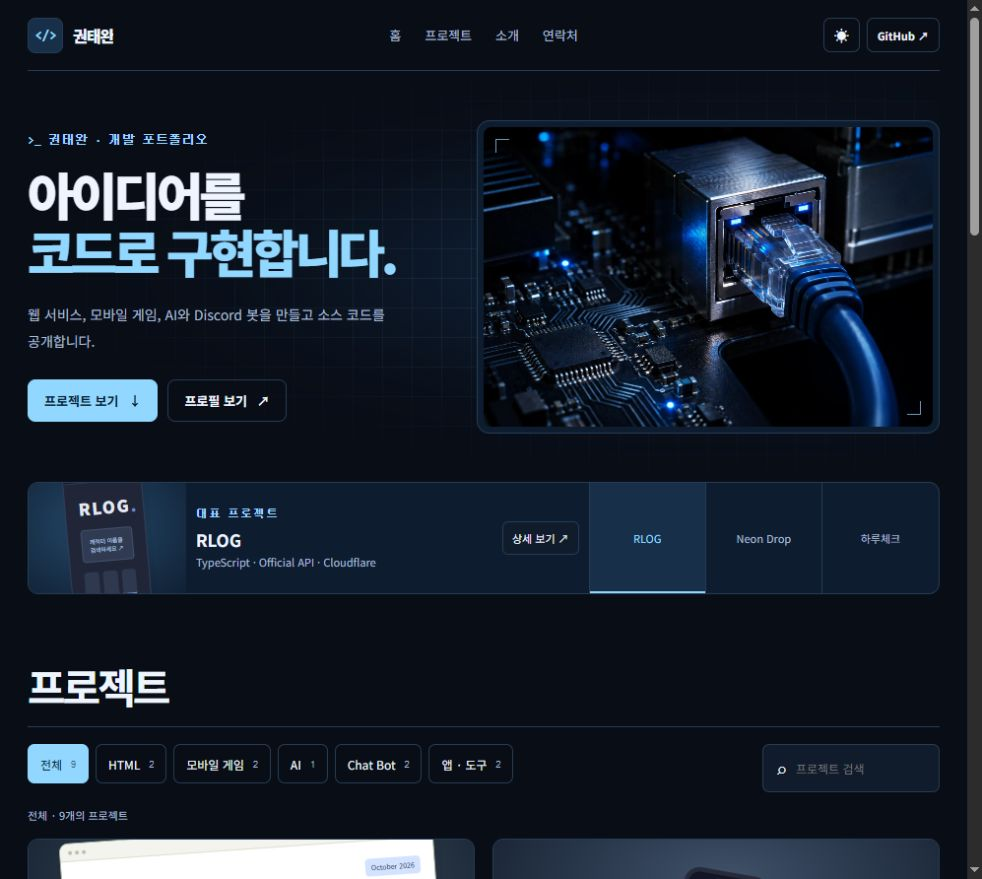
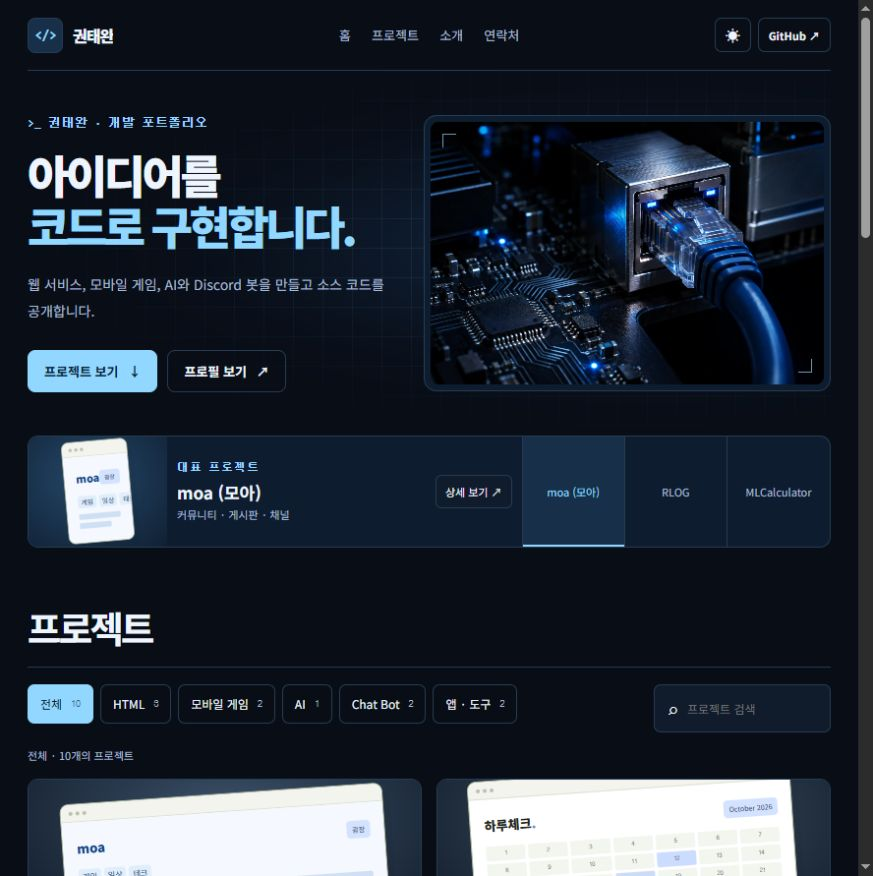
Refresh portfolio projects from GitHub

diff --git a/index.html b/index.html
@@ -308,6 +308,15 @@ body { font-family: Inter, "Noto Sans KR", "Malgun Gothic", system-ui, sans-seri
   .studio-contact .contact-actions { width: auto; }
 }
 
+.moa-mini .mini-brand { color: #15478e; }
+.moa-mini .mini-body { background: #f5f9ff; color: #154071; }
+.moa-mini-channels { display: flex; gap: 3px; margin-top: 5px; font-size: 8px; }
+.moa-mini-channels span { border-radius: 3px; background: #e0edfb; padding: 2px 4px; }
+.moa-mini-posts { display: grid; gap: 4px; margin-top: 7px; }
+.moa-mini-posts i { height: 7px; border-radius: 2px; background: #cfe0f4; }
+.moa-mini-posts i:last-child { width: 76%; }
+.spotlight-stage .calculator { transform: rotate(-6deg) scale(.74); }
+#project-dialog .hero-actions { flex-wrap: wrap; }
 </style>
 </head>
 <body>
@@ -331,28 +340,41 @@ body { font-family: Inter, "Noto Sans KR", "Malgun Gothic", system-ui, sans-seri
     </div>
   </figure>
 </section>
-<section class="studio-spotlight" aria-label="대표 작업 미리보기"><div class="card-art spotlight-stage" id="spotlight-stage" role="img" aria-label="RLOG 프로젝트 미리보기"><div class="browser-mini dark-mini"><div class="mini-body"><span class="mini-brand">RLOG.</span></div></div></div><div class="spotlight-info"><div aria-live="polite"><div class="spotlight-label">대표 프로젝트</div><h2 id="spotlight-title">RLOG</h2><p id="spotlight-tags">TypeScript · Official API · Cloudflare</p></div><button type="button" class="spotlight-open" id="spotlight-open">상세 보기 ↗</button></div><div class="spotlight-select" id="spotlight-select" role="group" aria-label="대표 프로젝트 선택"></div></section>
+<section class="studio-spotlight" aria-label="대표 작업 미리보기"><div class="card-art spotlight-stage" id="spotlight-stage" role="img" aria-label="moa (모아) 프로젝트 미리보기"><div class="browser-mini moa-mini"><div class="mini-body"><span class="mini-brand">moa</span></div></div></div><div class="spotlight-info"><div aria-live="polite"><div class="spotlight-label">대표 프로젝트</div><h2 id="spotlight-title">moa (모아)</h2><p id="spotlight-tags">커뮤니티 · 게시판 · 채널</p></div><button type="button" class="spotlight-open" id="spotlight-open">상세 보기 ↗</button></div><div class="spotlight-select" id="spotlight-select" role="group" aria-label="대표 프로젝트 선택"></div></section>
 <section id="projects" class="work studio-work" aria-labelledby="work-title"><div class="section-head"><h2 id="work-title">프로젝트</h2></div><div class="toolbar"><div id="filters" class="filters" role="group" aria-label="프로젝트 카테고리"></div><label class="search"><span aria-hidden="true">⌕</span><input id="search" type="search" placeholder="프로젝트 검색" aria-label="프로젝트 이름, 설명, 기술 검색" autocomplete="off"></label></div><div class="results"><span id="result-count" role="status" aria-live="polite"></span></div><div class="grid" id="project-grid"></div><noscript><p>프로젝트 필터와 상세 보기는 JavaScript가 필요합니다. <a href="https://github.com/taewan192">GitHub에서 전체 프로젝트 보기 ↗</a></p></noscript></section>
 <section id="about" class="about profile-section studio-about" aria-labelledby="about-title"><div><h2 id="about-title">안녕하세요, 권태완입니다.</h2><div class="skills" aria-label="프로젝트에 사용된 기술"><span>HTML / CSS / JavaScript</span><span>TypeScript</span><span>Python</span><span>Unity / C#</span><span>discord.py</span></div></div><div><p class="profile-bio" id="profile-bio">웹, 모바일 게임, AI와 Discord Bot을 만듭니다. 관심 있는 아이디어를 직접 구현하고, 실험하며 배운 것을 프로젝트로 남기고 있습니다.</p><div class="profile-card"><div class="profile-heading"><div class="profile-identity"><span class="profile-avatar" id="profile-initial" aria-hidden="true">권</span><div><h3 data-profile-name>권태완</h3><div class="profile-role" id="profile-role">Developer &amp; Creator</div></div></div><button class="pill profile-edit" id="edit-profile" type="button">프로필 편집 ↗</button></div><div class="profile-links"><a class="profile-email" id="profile-email" href="mailto:darong135@gmail.com">✉ <span>darong135@gmail.com</span></a><a class="profile-email" href="https://github.com/taewan192" target="_blank" rel="noopener noreferrer">GitHub ↗</a></div><div class="profile-feedback" id="profile-feedback" role="status" aria-live="polite"></div></div></div></section>
 <section id="contact" class="contact studio-contact" aria-labelledby="contact-title"><div><h2 id="contact-title">연락하기</h2><p>프로젝트가 궁금하거나 함께 만들고 싶은 것이 있다면 연락해 주세요.</p></div><div class="contact-actions"><a class="pill dark" id="contact-email" href="mailto:darong135@gmail.com">이메일 보내기 ↗</a><a class="pill" href="https://github.com/taewan192" target="_blank" rel="noopener noreferrer">GitHub ↗</a></div></section>
 </main><footer class="footer"><span>© <span id="year"></span> <span data-profile-name>권태완</span></span><a href="#home">맨 위로 ↑</a><a href="https://github.com/taewan192" target="_blank" rel="noopener noreferrer">@taewan192 ↗</a></footer>
 </div>
-<dialog id="project-dialog" aria-labelledby="modal-title"><div class="modal-inner"><div class="modal-top"><span class="category" id="modal-category"></span><button class="close" aria-label="상세 보기 닫기" autofocus>×</button></div><div class="card-art modal-art" id="modal-art" role="img" aria-label="프로젝트 썸네일"><div class="modal-art-stage" aria-hidden="true"></div></div><h2 id="modal-title"></h2><p id="modal-description"></p><div class="tags" id="modal-tags"></div><ul id="modal-features"></ul><div class="hero-actions"><a class="pill dark" id="modal-github" target="_blank" rel="noopener noreferrer">GitHub 소스 보기 ↗</a><a class="pill" id="modal-live" target="_blank" rel="noopener noreferrer" hidden>웹사이트 방문 ↗</a></div><p class="modal-note">프로젝트 소개는 각 GitHub 저장소의 README를 바탕으로 작성했습니다. 카드 이미지는 프로젝트 성격을 표현한 그래픽입니다.</p></div></dialog>
+<dialog id="project-dialog" aria-labelledby="modal-title"><div class="modal-inner"><div class="modal-top"><span class="category" id="modal-category"></span><button class="close" aria-label="상세 보기 닫기" autofocus>×</button></div><div class="card-art modal-art" id="modal-art" role="img" aria-label="프로젝트 썸네일"><div class="modal-art-stage" aria-hidden="true"></div></div><h2 id="modal-title"></h2><p id="modal-description"></p><div class="tags" id="modal-tags"></div><ul id="modal-features"></ul><div class="hero-actions"><a class="pill dark" id="modal-github" target="_blank" rel="noopener noreferrer">GitHub 소스 보기 ↗</a><a class="pill" id="modal-live" target="_blank" rel="noopener noreferrer" hidden>웹사이트 방문 ↗</a><a class="pill" id="modal-download" target="_blank" rel="noopener noreferrer" hidden>최신 버전 다운로드 ↗</a></div><p class="modal-note">프로젝트 소개는 각 GitHub 저장소의 README를 바탕으로 작성했습니다. 카드 이미지는 프로젝트 성격을 표현한 그래픽입니다.</p></div></dialog>
 <script id="profile-defaults" type="application/json">{"name":"권태완","email":"darong135@gmail.com","role":"Developer & Creator","bio":"웹, 모바일 게임, AI와 Discord Bot을 만듭니다. 관심 있는 아이디어를 직접 구현하고, 실험하며 배운 것을 프로젝트로 남기고 있습니다."}</script>
 <dialog id="profile-dialog" aria-labelledby="profile-modal-title"><div class="modal-inner"><div class="modal-top"><span class="category">MY PROFILE</span><button class="close" id="close-profile" type="button" aria-label="프로필 편집 닫기">×</button></div><h2 id="profile-modal-title">나를 소개하는 정보.</h2><p class="profile-help" id="profile-save-help">저장한 내용은 이 브라우저에만 적용됩니다. 다른 기기나 방문자에게도 같은 정보를 보여주려면 수정한 HTML을 내려받아 사이트에 배포하세요.</p><form class="profile-form" id="profile-form" aria-describedby="profile-save-help"><label>이름<input id="edit-name" name="name" autocomplete="name" required maxlength="40"></label><label>이메일<input id="edit-email" name="email" type="email" autocomplete="email" required maxlength="254"></label><label>직함 · 한 줄 소개<input id="edit-role" name="role" maxlength="80"></label><label>자기소개<textarea id="edit-bio" name="bio" maxlength="600" rows="4"></textarea></label><div class="profile-form-actions"><button class="pill dark" type="submit">이 브라우저에 저장</button><button class="pill" id="export-profile" type="button">수정한 HTML 다운로드 ↧</button></div></form></div></dialog>
 <script>
 'use strict';
 // 프로젝트를 추가하거나 수정할 때 이 배열을 편집하세요. categories에는 여러 분류를 넣을 수 있습니다.
 const PROJECTS = [
-{id:'harucheck',title:'하루체크',categories:['tools'],label:'APP · TOOL',art:'calendar',color:'#e7edda',tags:['HTML','CSS','JavaScript'],description:'하루의 일정과 완료 상태를 한눈에. 테마와 알림을 지원하는 캘린더 웹앱입니다.',features:['2026–2027 월별 달력과 일정 추가·수정·삭제','예정·완료·실패 상태와 날짜별 진행률','화이트·다크 테마, 10개 언어 및 .ics 일정 내보내기','브라우저 내부 저장. 알림은 앱이 실행 중인 지원 환경에서 동작'],github:'https://github.com/taewan192/harucheck'},
+  {
+    id: 'moa', title: 'moa (모아)', categories: ['html'], label: 'WEB · COMMUNITY',
+    art: 'moa', color: '#d9e8f9', tags: ['커뮤니티', '게시판', '채널'],
+    description: '게임, 애니·만화, 일상, 영화, 테크 등 관심사별로 이야기를 나누는 한국어 커뮤니티입니다.',
+    features: [
+      '광장에서 인기 글을 둘러보고 관심 채널을 즐겨찾기에 저장',
+      '사진·GIF·영상과 표·그래프·투표를 활용한 게시글 작성',
+      '프로필에서 활동과 포인트 확인, 쪽지·알림·회원 차단 제공',
+      '게시글·댓글·쪽지 신고와 커뮤니티 운영 공지'
+    ],
+    github: 'https://github.com/taewan192/moa-community-intro', githubLabel: 'GitHub 소개 문서',
+    live: 'https://moapark.com/'
+  },
+{id:'harucheck',title:'하루체크',categories:['tools'],label:'APP · TOOL',art:'calendar',color:'#e7edda',tags:['HTML','CSS','JavaScript'],description:'하루의 일정과 완료 상태를 한눈에. 테마와 알림을 지원하는 캘린더 웹앱입니다.',features:['2026–2027 월별 달력과 일정 추가·수정·삭제','예정·완료·실패 상태와 날짜별 진행률','화이트·다크 테마, 10개 언어, 일정별 .ics 내보내기','시작 시각 또는 미리 알림과 맞춤 알림, 소리·진동 설정','일정은 브라우저에 저장. 알림 권한을 지원하는 웹 환경에서 사용'],github:'https://github.com/taewan192/harucheck'},
 {id:'neon-drop',title:'Neon Drop',categories:['mobile'],label:'MOBILE GAME',art:'blocks',color:'#e5dff3',tags:['HTML','JavaScript','Android'],description:'빛나는 블록을 쌓는 오프라인 퍼즐 게임. 터치 조작과 10개 언어를 지원합니다.',features:['터치 조작, 홀드와 고스트 블록','효과음과 라이트·다크 테마','네트워크 없이 실행되는 독립 HTML과 Android 앱','10개 언어와 기기 내 최고 점수 저장'],github:'https://github.com/taewan192/neon-drop'},
 {id:'ldplayer-ai',title:'LDPlayer Deep RL',categories:['ai'],label:'ARTIFICIAL INTELLIGENCE',art:'network',color:'#e4ebdd',tags:['Python','NumPy','Double DQN'],description:'게임 화면과 OCR로 상태를 읽고, 로컬 CPU에서 학습하는 실험적 강화학습 AI입니다.',features:['Million Lords용 게임 어댑터와 화면·OCR 관측','NumPy 기반 Double DQN과 Prioritized Experience Replay','공격 후보 검토, 병력 집결, 방어 지원 및 실행 결과 확인','외부 AI API·GPU 없이 CPU에서 학습. 실험적 시스템으로 실전 성능은 보장하지 않음'],github:'https://github.com/taewan192/ldplayer-mobile-game-deep-rl-ai'},
-{id:'millionlords-bot',title:'MillionLords Bot',categories:['chatbot'],label:'DISCORD BOT',art:'chat',color:'#e8e5f1',tags:['Python','discord.py','CSV'],description:'공격력 계산부터 팀 관리, 보석 일정까지. 길드 운영을 돕는 Discord 봇입니다.',features:['공격력·레벨 계산과 병력 손실 빌드 시뮬레이션','팀·닉네임 관리 및 권한 기반 멤버 관리','날짜·종류별 보석 일정 조회','Discord 명령어와 로그·파일 저장 처리'],github:'https://github.com/taewan192/MillionLords_bot'},
-{id:'rlog',title:'RLOG',categories:['html'],label:'HTML · WEB',art:'rlog',color:'#dfe6f1',tags:['TypeScript','Official API','Cloudflare'],description:'로스트아크 캐릭터 검색과 장비 조회, 원정대 관리·주간 골드 계산을 한곳에.',features:['공식 API 기반 캐릭터 검색·최대 4명 비교','장비·보석·각인·카드·수집 현황 조회','거래소 시세, 주간 일정 및 공지·이벤트','조회 기록 기반 순위와 사용자가 설정하는 예상 주간 골드 계산'],github:'https://github.com/taewan192/RLOG',live:'https://statpeek-ark.arcanagaming2026.chatgpt.site/'},
-{id:'sudoku',title:'Sudoku',categories:['mobile'],label:'MOBILE GAME',art:'sudoku',color:'#e2ebed',tags:['Unity','C#','Android'],description:'노트와 힌트로 풀어가는 스도쿠. 세 가지 난이도로 즐기는 세로형 모바일 게임입니다.',features:['Easy·Normal·Hard 난이도별 10개 라운드','라운드마다 무작위 스도쿠 보드','노트 모드, 힌트와 난이도별 실수 제한','화이트·다크 테마 및 Android 세로 화면 지원'],github:'https://github.com/taewan192/Sudoku'},
-{id:'mlcalculator',title:'MLCalculator',categories:['tools'],label:'APP · TOOL',art:'calculator',color:'#f0e7da',tags:['TypeScript','Python','Android'],description:'Million Lords의 플레이어 스탯과 도시 업그레이드 비용을 계산하는 멀티플랫폼 앱.',features:['플레이어 공격력·목표 레벨과 도시 비용 계산','성벽·승점·부대 생산량과 보유 골드 계산','Windows·Android·모바일 웹 버전','9개 언어, 테마와 설정 저장. Windows·Android는 오프라인 사용 가능'],github:'https://github.com/taewan192/MLCalculator'},
-{id:'signup-bot',title:'MillionLords 가입 봇',categories:['chatbot'],label:'DISCORD BOT',art:'signup',color:'#eee4ee',tags:['Python','discord.py','Slash Commands'],description:'메인·ALT 계정 등록과 역할 적용을 자동화하는 Discord 서버 가입 도우미.',features:['/signup으로 메인 닉네임·Discord 닉네임·가입 역할 적용','/alt로 메인 계정에 ALT 닉네임 추가','관리자의 계정 조회·등록 기록 초기화','CSV 계정 저장과 비공개 명령 응답'],github:'https://github.com/taewan192/MillionLords_bot_ML_Sever'},
-{id:'portfolio',title:'개인 포트폴리오',categories:['html'],label:'HTML · WEB',art:'portfolio',color:'#dce6f8',tags:['HTML','CSS','JavaScript'],description:'직접 만든 웹·앱·게임·AI 프로젝트를 한곳에 모은 권태완의 개인 포트폴리오 사이트입니다.',features:['HTML·모바일 게임·AI·Chat Bot·앱·도구별 필터와 검색','썸네일·설명·주요 기능·GitHub 링크를 제공하는 프로젝트 상세 화면','라이트 모드와 블랙·다크블루 다크 모드, 모바일 반응형 화면','이름·이메일·자기소개 편집, 브라우저 저장 및 수정한 HTML 다운로드'],github:'https://github.com/taewan192/taewan-portfolio',live:'https://arcana-portfolio-k8x4.arcanagaming2026.chatgpt.site/'}
+{id:'millionlords-bot',title:'MillionLords Bot',categories:['chatbot'],label:'DISCORD BOT',art:'chat',color:'#e8e5f1',tags:['Python','discord.py','CSV'],description:'공격력 계산부터 팀 관리, 보석 일정까지. 길드 운영을 돕는 Discord 봇입니다.',features:['공격력·레벨 계산과 병력 손실 빌드 시뮬레이션','팀·닉네임 관리 및 권한 기반 멤버 관리','날짜·종류별 보석 일정 조회','채널 정리, 도움말과 관리자용 명령어 지원'],github:'https://github.com/taewan192/MillionLords_bot'},
+{id:'rlog',title:'RLOG',categories:['html'],label:'HTML · WEB',art:'rlog',color:'#dfe6f1',tags:['TypeScript','로스트아크 공식 API','Cloudflare D1'],description:'로스트아크 공식 API를 바탕으로 캐릭터와 장비를 조회하고, 원정대의 예상 주간 골드를 계산하는 웹 서비스입니다.',features:['캐릭터 최대 4명 비교와 장비·보석·각인·카드·아크 그리드 상세 조회','공식 거래소 시세, 주간 일정과 공지·이벤트','RLOG 조회 기록을 바탕으로 표시하는 직업 순위와 길드 구성원','레이드와 난이도를 선택해 거래 가능 골드와 귀속 골드를 나눠 계산'],github:'https://github.com/taewan192/RLOG',live:'https://statpeek-ark.arcanagaming2026.chatgpt.site/'},
+{id:'sudoku',title:'Sudoku',categories:['mobile'],label:'MOBILE GAME',art:'sudoku',color:'#e2ebed',tags:['Unity','C#','Android'],description:'노트와 힌트로 풀어가는 스도쿠. 세 가지 난이도로 즐기는 세로형 모바일 게임입니다.',features:['Easy·Normal·Hard 난이도별 10개 라운드','라운드마다 무작위 스도쿠 보드','노트 모드, 힌트와 난이도별 실수 제한','화이트·다크 테마와 언어 메뉴, Android 세로 화면 지원'],github:'https://github.com/taewan192/Sudoku'},
+{id:'mlcalculator',title:'MLCalculator',categories:['tools'],label:'APP · TOOL',art:'calculator',color:'#f0e7da',tags:['TypeScript','Python','Android'],description:'Million Lords의 공격 가능 레벨, 도시 업그레이드 비용과 부대 생산량을 계산하는 Windows·Android·모바일 웹 도구입니다.',features:['장비 공격력과 병력 또는 직접 입력한 공격력으로 목표 레벨 계산','도시별 업그레이드 비용·성벽·승점·부대 생산량과 보유 골드로 가능한 업그레이드 계산','Windows·Android 1.1.6에 리그 그룹 선택과 예상 모집 탭 제공','9개 언어와 테마·설정 저장, Windows·Android 오프라인 지원'],github:'https://github.com/taewan192/MLCalculator',download:'https://github.com/taewan192/MLCalculator/releases/latest'},
+{id:'signup-bot',title:'MillionLords 가입 봇',categories:['chatbot'],label:'DISCORD BOT',art:'signup',color:'#eee4ee',tags:['Python','discord.py','Slash Commands'],description:'메인·ALT 계정 등록과 역할 적용을 자동화하는 Discord 서버 가입 도우미.',features:['/signup으로 메인 닉네임·Discord 닉네임·가입 역할 적용','/alt로 메인 계정에 ALT 닉네임 추가','관리자의 계정 조회·등록 기록 초기화','CSV 계정 저장과 명령을 실행한 사람에게만 보이는 응답'],github:'https://github.com/taewan192/MillionLords_bot_ML_Sever'},
+{id:'portfolio',title:'개인 포트폴리오',categories:['html'],label:'HTML · WEB',art:'portfolio',color:'#dce6f8',tags:['HTML','CSS','JavaScript'],description:'직접 만든 웹·앱·게임·AI 프로젝트를 한곳에 모은 권태완의 개인 포트폴리오 사이트입니다.',features:['HTML·모바일 게임·AI·Chat Bot·앱·도구별 필터와 검색','썸네일·설명·주요 기능·GitHub 링크를 제공하는 프로젝트 상세 화면','moa·RLOG·MLCalculator 대표 프로젝트와 모바일 반응형 화면, 라이트·다크 모드','이름·이메일·자기소개 편집, 브라우저 저장 및 수정한 HTML 다운로드'],github:'https://github.com/taewan192/taewan-portfolio',live:'https://arcana-portfolio-k8x4.arcanagaming2026.chatgpt.site/'}
 ];
 const CATEGORIES=[['all','전체'],['html','HTML'],['mobile','모바일 게임'],['ai','AI'],['chatbot','Chat Bot'],['tools','앱 · 도구']];
 const $=s=>document.querySelector(s);const grid=$('#project-grid'),dialog=$('#project-dialog');let active='all',query='',previousFocus=null;
@@ -362,6 +384,15 @@ if(p.art==='calendar')a=`<div class="browser-mini">${bar}<div class="mini-body">
 if(p.art==='blocks')a=`<div class="phone"><div class="phone-title">NEON DROP</div><div class="blocks">${Array.from({length:48},(_,i)=>`<i class="${i>23?'c'+(Math.floor(i/5)%3+1):[4,10,16,17].includes(i)?'c1':''}"></i>`).join('')}</div></div>`;
 if(p.art==='network')a=`<div class="network">${[3,4,3,2].map((n,i)=>`<div class="network-col">${'<i></i>'.repeat(n)}</div>`).join('')}</div><span class="ai-foot">OBSERVE → LEARN → ACT</span>`;
 if(p.art==='chat'||p.art==='signup')a=`<div class="chat-mini"><div class="chat-title"><span class="bot-avatar">✳</span>MillionLords <span style="font-size:6px;background:#8774c1;color:#fff;padding:2px 4px;border-radius:3px">APP</span></div><div class="chat-line"><span class="bot-avatar" style="width:18px;height:18px;font-size:9px">m</span><div class="chat-text"><strong>${p.art==='signup'?'가입 도우미':'길드 어시스턴트'}</strong><br>${p.art==='signup'?'메인 계정을 등록하고 시작하세요.':'공격력 계산과 길드 관리를 더 간편하게.'}</div></div><div class="command">${p.art==='signup'?'/signup 닉네임':'/lb 공격력'}</div></div>`;
+if (p.art === 'moa') {
+  a = `<div class="browser-mini moa-mini">${bar}
+    <div class="mini-body">
+      <div class="mini-head"><span class="mini-brand">moa</span><span class="mini-pill">광장</span></div>
+      <div class="moa-mini-channels"><span>게임</span><span>일상</span><span>테크</span></div>
+      <div class="moa-mini-posts"><i></i><i></i></div>
+    </div>
+  </div>`;
+}
 if(p.art==='rlog')a=`<div class="browser-mini dark-mini">${bar}<div class="mini-body"><span class="mini-brand">RLOG<span style="color:#93b6ff">.</span></span><div class="mini-search">캐릭터 이름을 검색하세요 ↗</div><div class="mini-stats"><i></i><i></i><i></i></div></div></div>`;
 if(p.art==='sudoku')a=`<div class="phone sudoku"><div class="phone-title">SUDOKU</div><div class="sudoku-grid">${Array.from({length:36},(_,i)=>`<span>${i%3===0?'':(i*5+Math.floor(i/6))%9+1}</span>`).join('')}</div></div>`;
 if(p.art==='calculator')a='<div class="calculator"><div class="mini-brand">MLCalculator</div><div class="calc-field"><span>플레이어 공격력</span><b>42.2T</b></div><div class="calc-field"><span>목표 레벨</span><b>115</b></div><div class="calc-result">CITY ↗ LEVEL</div></div>';
@@ -369,12 +400,23 @@ if(p.art==='portfolio')a=`<div class="browser-mini portfolio-mini">${bar}<div cl
 return head+a;}
 function renderFilters(){const holder=$('#filters');holder.innerHTML=CATEGORIES.map(([id,name])=>`<button class="filter" data-filter="${id}" aria-pressed="${active===id}">${name}<span>${id==='all'?PROJECTS.length:PROJECTS.filter(p=>p.categories.includes(id)).length}</span></button>`).join('');}
 function visibleProjects(){return PROJECTS.filter(p=>(active==='all'||p.categories.includes(active))&&`${p.title} ${p.description} ${p.tags.join(' ')} ${p.label}`.toLocaleLowerCase().includes(query));}
-function render(){const items=visibleProjects();$('#result-count').textContent=`${CATEGORIES.find(c=>c[0]===active)[1]} · ${items.length}개의 프로젝트`;for(const b of document.querySelectorAll('[data-filter]'))b.setAttribute('aria-pressed',String(b.dataset.filter===active));grid.innerHTML=items.length?items.map(p=>`<article class="card" data-project="${p.id}"><div class="card-art" style="--art-color:${p.color};background:var(--art-color)" aria-hidden="true">${artwork(p,PROJECTS.indexOf(p))}</div><div class="card-content"><div class="card-meta"><span class="category">${p.label}</span></div><h3><button class="card-title" data-project="${p.id}" aria-label="${esc(p.title)} 상세 보기">${esc(p.title)}</button></h3><p>${esc(p.description)}</p><div class="tags">${p.tags.map(t=>`<span class="tag">${esc(t)}</span>`).join('')}</div><div class="card-bottom"><button class="detail" data-project="${p.id}" aria-label="${esc(p.title)} 프로젝트 상세 보기">프로젝트 보기 <span aria-hidden="true">↗</span></button><a class="github" href="${esc(p.github)}" target="_blank" rel="noopener noreferrer" aria-label="${esc(p.title)} GitHub 저장소 새 탭으로 열기">&lt;/&gt; GitHub ↗</a></div></div></article>`).join(''):'<div class="empty"><h3>검색 결과가 없습니다.</h3><p>다른 카테고리나 검색어로 다시 찾아보세요.</p><button class="pill dark" id="reset-search">전체 프로젝트 보기 ↗</button></div>';}
+function render(){const items=visibleProjects();$('#result-count').textContent=`${CATEGORIES.find(c=>c[0]===active)[1]} · ${items.length}개의 프로젝트`;for(const b of document.querySelectorAll('[data-filter]'))b.setAttribute('aria-pressed',String(b.dataset.filter===active));grid.innerHTML=items.length?items.map(p=>`<article class="card" data-project="${p.id}"><div class="card-art" style="--art-color:${p.color};background:var(--art-color)" aria-hidden="true">${artwork(p,PROJECTS.indexOf(p))}</div><div class="card-content"><div class="card-meta"><span class="category">${p.label}</span></div><h3><button class="card-title" data-project="${p.id}" aria-label="${esc(p.title)} 상세 보기">${esc(p.title)}</button></h3><p>${esc(p.description)}</p><div class="tags">${p.tags.map(t=>`<span class="tag">${esc(t)}</span>`).join('')}</div><div class="card-bottom"><button class="detail" data-project="${p.id}" aria-label="${esc(p.title)} 프로젝트 상세 보기">프로젝트 보기 <span aria-hidden="true">↗</span></button><a class="github" href="${esc(p.github)}" target="_blank" rel="noopener noreferrer" aria-label="${esc(p.title)} ${esc(p.githubLabel || 'GitHub 저장소')} 새 탭으로 열기">${esc(p.githubLabel || 'GitHub')} ↗</a></div></div></article>`).join(''):'<div class="empty"><h3>검색 결과가 없습니다.</h3><p>다른 카테고리나 검색어로 다시 찾아보세요.</p><button class="pill dark" id="reset-search">전체 프로젝트 보기 ↗</button></div>';}
 $('#filters').addEventListener('click',e=>{const b=e.target.closest('[data-filter]');if(b){active=b.dataset.filter;render();}});
 $('#search').addEventListener('input',e=>{query=e.target.value.trim().toLocaleLowerCase();render();});
 grid.addEventListener('click',e=>{if(e.target.closest('#reset-search')){active='all';query='';$('#search').value='';render();return;}if(e.target.closest('a')||window.getSelection()?.toString())return;const b=e.target.closest('[data-project]');if(!b)return;openProject(PROJECTS.find(p=>p.id===b.dataset.project),b.matches('button')?b:b.querySelector('.card-title'));});
-function openProject(p,trigger){if(!p)return;previousFocus=trigger;const art=$('#modal-art');art.style.setProperty('--art-color',p.color);art.style.background='var(--art-color)';art.setAttribute('aria-label',`${p.title} 프로젝트 썸네일`);art.querySelector('.modal-art-stage').innerHTML=artwork(p,PROJECTS.indexOf(p));$('#modal-category').textContent=p.label;$('#modal-title').textContent=p.title;$('#modal-description').textContent=p.description;$('#modal-tags').innerHTML=p.tags.map(t=>`<span class="tag">${esc(t)}</span>`).join('');$('#modal-features').replaceChildren(...p.features.map(f=>{const li=document.createElement('li');li.textContent=f;return li;}));$('#modal-github').href=p.github;const live=$('#modal-live');live.hidden=!p.live;if(p.live)live.href=p.live;else live.removeAttribute('href');dialog.showModal();dialog.scrollTop=0;document.body.style.overflow='hidden';}
-const SPOTLIGHT=['rlog','neon-drop','harucheck'].map(id=>PROJECTS.find(p=>p.id===id)).filter(Boolean);
+function setProjectLink(selector, url) {
+  const link = $(selector);
+  link.hidden = !url;
+  if (url) link.href = url;
+  else link.removeAttribute('href');
+}
+function openProject(p,trigger){if(!p)return;previousFocus=trigger;const art=$('#modal-art');art.style.setProperty('--art-color',p.color);art.style.background='var(--art-color)';art.setAttribute('aria-label',`${p.title} 프로젝트 썸네일`);art.querySelector('.modal-art-stage').innerHTML=artwork(p,PROJECTS.indexOf(p));$('#modal-category').textContent=p.label;$('#modal-title').textContent=p.title;$('#modal-description').textContent=p.description;$('#modal-tags').innerHTML=p.tags.map(t=>`<span class="tag">${esc(t)}</span>`).join('');$('#modal-features').replaceChildren(...p.features.map(f=>{const li=document.createElement('li');li.textContent=f;return li;}));const github = $('#modal-github');
+  github.href = p.github;
+  github.textContent = (p.githubLabel || 'GitHub 소스 보기') + ' ↗';
+  setProjectLink('#modal-live', p.live);
+  setProjectLink('#modal-download', p.download);
+  dialog.showModal();dialog.scrollTop=0;document.body.style.overflow='hidden';}
+const SPOTLIGHT=['moa','rlog','mlcalculator'].map(id=>PROJECTS.find(p=>p.id===id)).filter(Boolean);
 let spotlightIndex=0;
 const spotlightSelect=$('#spotlight-select'),spotlightStage=$('#spotlight-stage'),spotlightOpen=$('#spotlight-open');
 function renderSpotlight(){const p=SPOTLIGHT[spotlightIndex];if(!p)return;spotlightStage.innerHTML=artwork(p,PROJECTS.indexOf(p));spotlightStage.setAttribute('aria-label',`${p.title} 프로젝트 미리보기`);$('#spotlight-title').textContent=p.title;$('#spotlight-tags').textContent=p.tags.join(' · ');spotlightOpen.setAttribute('aria-label',`${p.title} 대표 작업 상세 보기`);for(const b of spotlightSelect.querySelectorAll('button'))b.setAttribute('aria-pressed',String(Number(b.dataset.spotlight)===spotlightIndex));}

diff --git a/README.md b/README.md
@@ -1,6 +1,6 @@
 # 권태완 개인 포트폴리오
 
-회로 기판에 연결된 랜 케이블 이미지와 블랙·딥블루 테마로 만든 개발 포트폴리오입니다. 홈의 대표 프로젝트와 카테고리별 작업 목록에서 프로젝트 상세와 GitHub 소스를 열 수 있습니다. 이미지는 HTML에 포함되어 파일 하나만 열면 됩니다.
+회로 기판에 연결된 랜 케이블 이미지와 블랙·딥블루 테마로 만든 개발 포트폴리오입니다. 홈의 대표 프로젝트와 카테고리별 작업 목록에서 프로젝트 상세와 GitHub 소스를 열 수 있습니다. 이미지는 HTML에 포함되어 파일 하나만 열면 됩니다. 대표 프로젝트는 moa(모아), RLOG, MLCalculator입니다. 상세 화면에서 모아 커뮤니티와 GitHub 소개 문서, RLOG 운영 사이트, MLCalculator 최신 릴리스를 열 수 있습니다.
 
 웹, 모바일 게임, AI, Discord Bot 프로젝트를 소개하는 개인 홈페이지입니다. 블랙·다크블루 다크 모드와 라이트 모드를 지원합니다.
 
